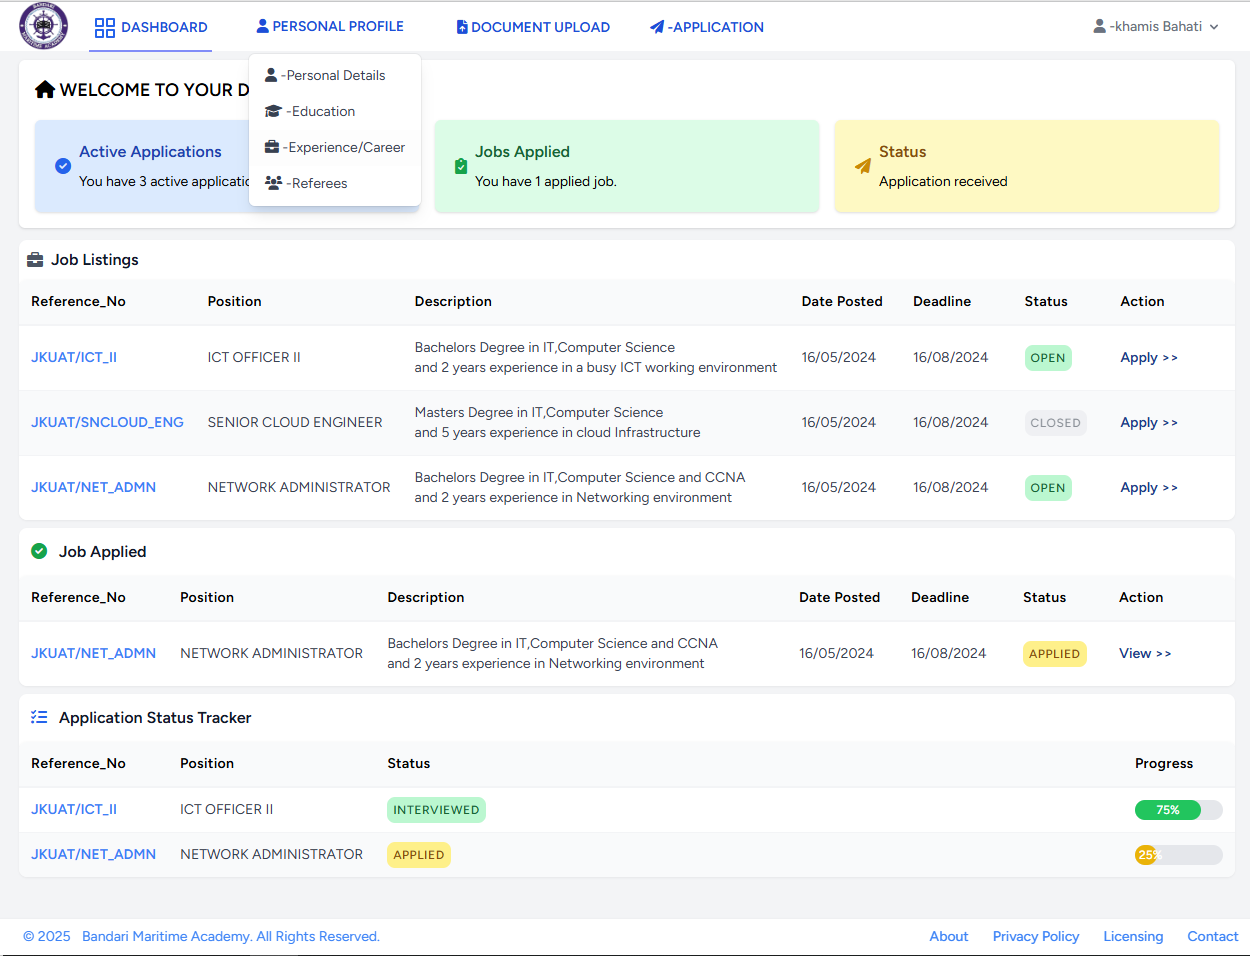
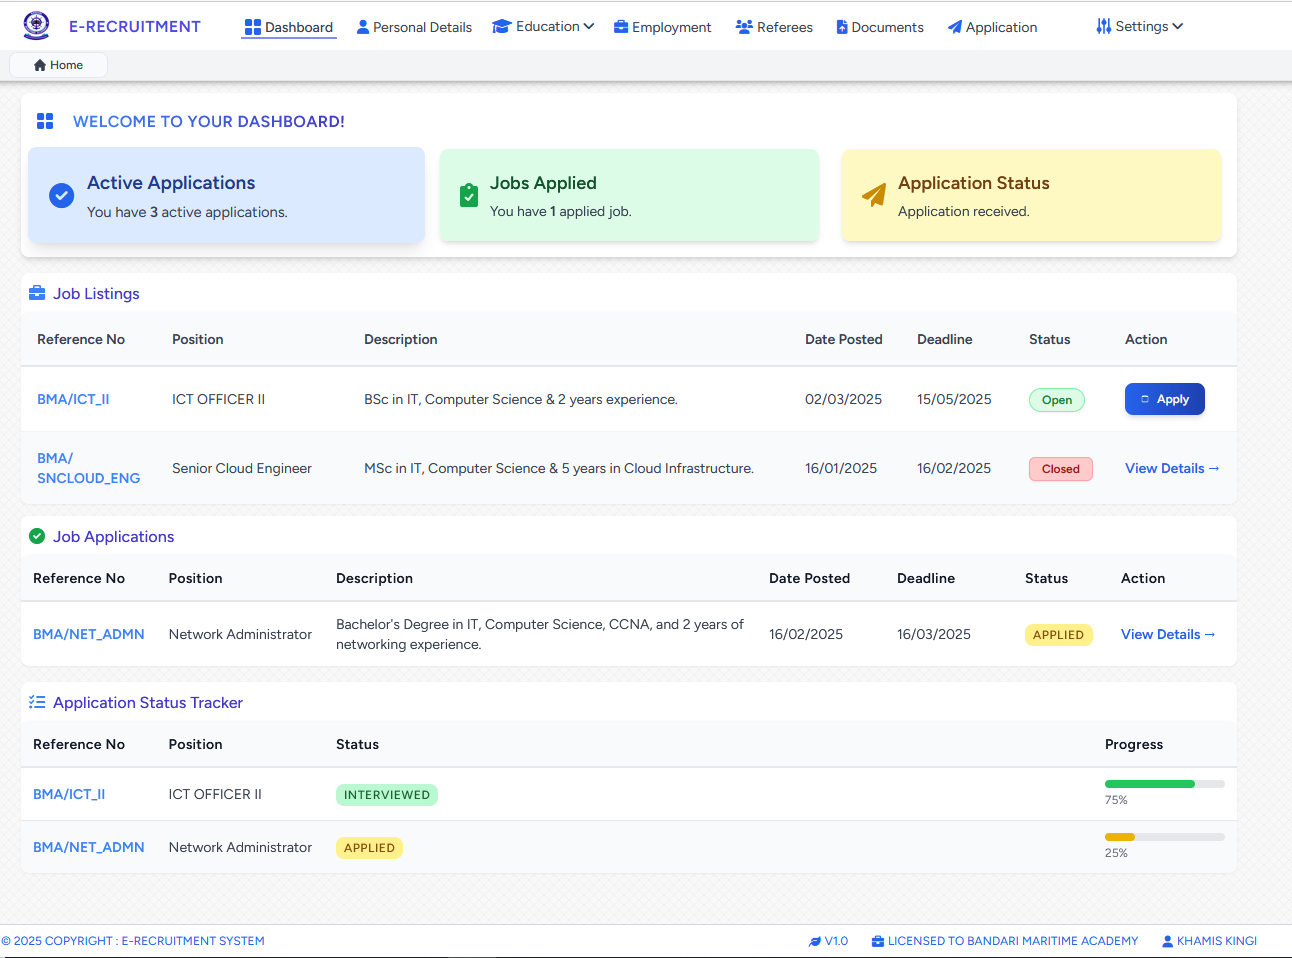
readme

diff --git a/README.md b/README.md
@@ -2,36 +2,12 @@
 
 ## Overview
 
-The **Job Application Portal** is a web-based platform designed to streamline the job application process. It allows users to create profiles, add their educational background, manage personal information, and apply for job opportunities. The portal is built using **Laravel Breeze** and **Tailwind CSS** for a modern and responsive user experience.
+The **Job Application Portal** is a web-based platform designed to streamline the job application process. It allows users to create profiles, add their educational background, manage personal information, and apply for job opportunities. The portal is built using **Laravel** and **Tailwind CSS** for a modern and responsive user experience.
 
-## Features
-
-### ✅ **User Management**
-
-- User registration and authentication
-- Profile management (Personal Information, Education, etc.)
-
-### 🎓 **Education Section**
-
-- Add, edit, and delete education background
-- Fields: Institution, Level of Study, Field of Study, Award, Start Date, End Date
-- Validation to ensure correct data input
-
-### 📜 **Personal Information Section**
-
-- Includes: Full Name, Email, Phone Number, Date of Birth, Gender, Marital Status, National ID, Nationality, County, Subcounty, Ethnicity
-- Dropdowns for easy selection
-- Eloquent relationships for location-based data
-
-### 📑 **Job Application Management** *(Future Development)*
-
-- Browse and apply for jobs
-- View application status
-- Upload resumes and cover letters
 
 ## Technology Stack
 
-- **Backend:** Laravel 10 (Breeze Authentication)
+- **Backend:** Laravel 11 (Breeze Authentication + OTP)
 - **Frontend:** Tailwind CSS, Alpine.js
 - **Database:** MySQL
 - **Version Control:** Git & GitHub
@@ -42,8 +18,8 @@ The **Job Application Portal** is a web-based platform designed to streamline th
 ### 1⃣ Clone the Repository
 
 ```sh
-    git clone https://github.com/yourusername/job-application-portal.git
-    cd job-application-portal
+    git https://github.com/kingi001/career-portal.git
+    cd career-portal
 ```
 
 ### 2⃣ Install Dependencies
@@ -84,12 +60,21 @@ Then run:
 ```sh
     php artisan serve
 ```
+### 5⃣ Run the Application
+
+```sh
+    npm run dev
+```
 
 Then open `http://127.0.0.1:8000` in your browser.
 
 ## Screenshots 
 ![Dashboard Screenshot](screenshots/screenshot1.PNG)
 ![Education Section](screenshots/screenshot2.PNG)
+![Education Section](screenshots/screenshot3.PNG)
+![Education Section](screenshots/screenshot4.PNG)
+![Education Section](screenshots/screenshot5.PNG)
+![Education Section](screenshots/screenshot6.PNG)
 
 
 ## Future Enhancements
@@ -107,9 +92,6 @@ Contributions are welcome! Please follow these steps:
 3. Commit changes and push to GitHub
 4. Submit a pull request
 
-
-
 ---
-
 🚀 **Developed by khamis kinigi** 
 
